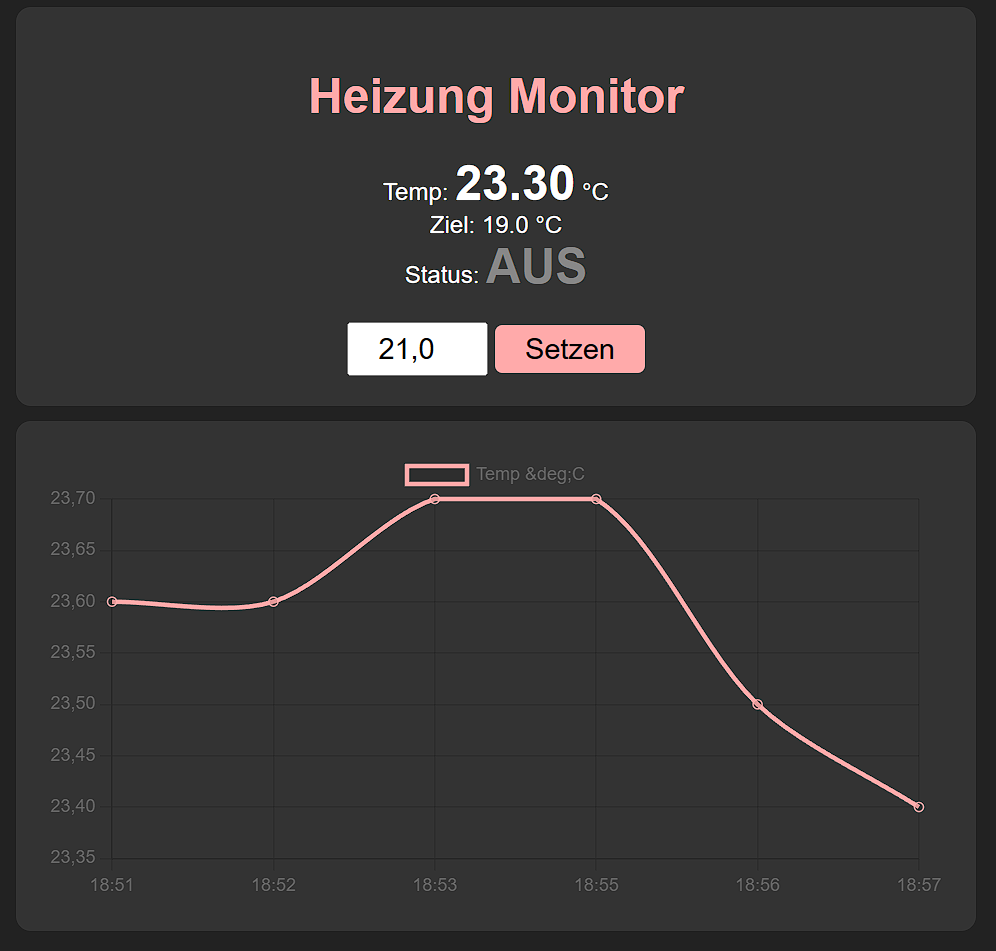
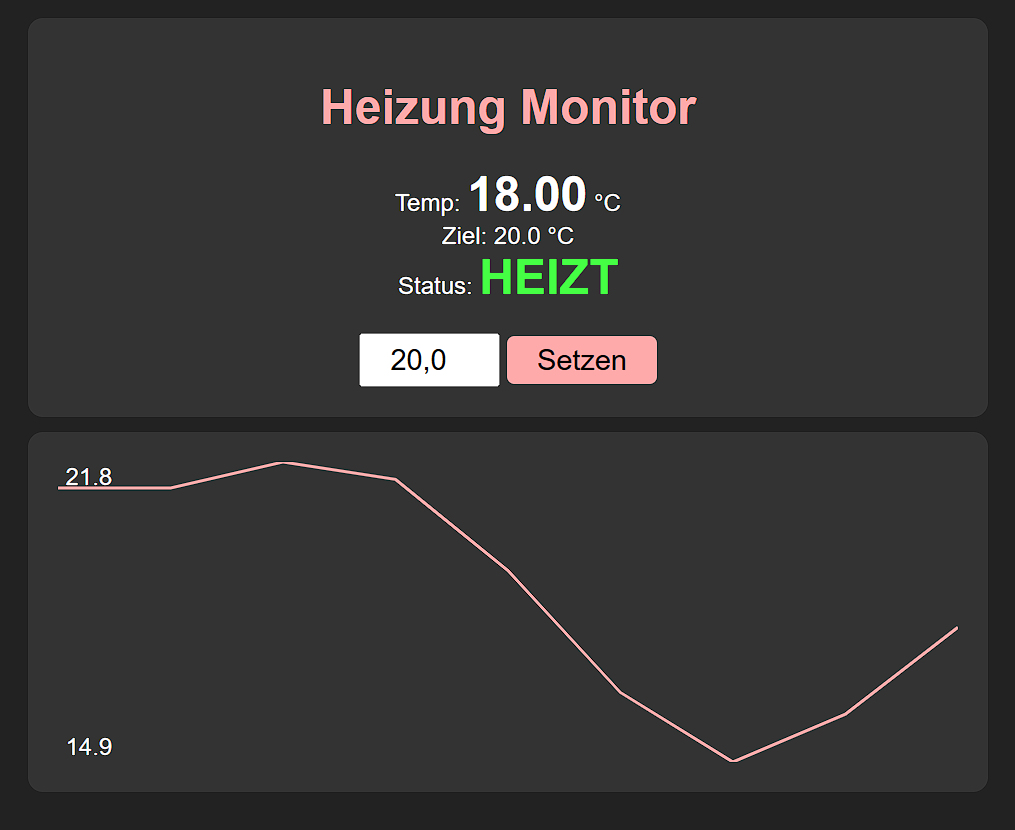
feat: replace Chart.js with custom SVG temperature graph
Replace the Canvas-based Chart.js implementation with a lightweight SVG graph for displaying temperature history. The new implementation renders temperature data as an SVG polyline directly in the browser without requiring external charting libraries, improving performance and reducing dependencies.

diff --git a/src/main.py b/src/main.py
@@ -274,12 +274,10 @@ HTML_PAGE = """<!DOCTYPE html>
   </div>
  </div>
  <div class="card">
-  <canvas id="myChart"></canvas>
+  <div id="graph" style="width:100%;height:200px;"></div>
  </div>
 
  <script>
-  let chart;
-  
   async function update() {
     try {
       let r = await fetch('/api/data');
@@ -292,15 +290,37 @@ HTML_PAGE = """<!DOCTYPE html>
       st.innerText = d.heating ? "HEIZT" : "AUS";
       st.className = d.heating ? "val status-on" : "val status-off";
       
-      // Update Graph
-      if(d.history.length > 0 && chart) {
-         let labels = d.history.map(x => new Date(x[0]*1000).toLocaleTimeString([], {hour:'2-digit', minute:'2-digit'}));
-         let data = d.history.map(x => x[1]);
-         chart.data.labels = labels;
-         chart.data.datasets[0].data = data;
-         chart.update();
+      // Update SVG Graph
+      if(d.history.length > 1) {
+         renderSVG(d.history);
       }
     } catch(e) { console.log(e); }
+  }
+
+  function renderSVG(history) {
+    const graphDiv = document.getElementById('graph');
+    const width = graphDiv.clientWidth;
+    const height = graphDiv.clientHeight;
+    
+    const temps = history.map(p => p[1]);
+    const minTemp = Math.min(...temps);
+    const maxTemp = Math.max(...temps);
+    const tempRange = maxTemp - minTemp;
+    
+    const points = history.map((p, i) => {
+        const x = (i / (history.length - 1)) * width;
+        const y = tempRange === 0 ? height / 2 : height - ((p[1] - minTemp) / tempRange) * height;
+        return `${x},${y}`;
+    }).join(' ');
+
+    const svg = `
+      <svg width="${width}" height="${height}" xmlns="http://www.w3.org/2000/svg">
+        <polyline points="${points}" style="fill:none;stroke:#faa;stroke-width:2" />
+        <text x="5" y="15" fill="#fff">${maxTemp.toFixed(1)}</text>
+        <text x="5" y="${height - 5}" fill="#fff">${minTemp.toFixed(1)}</text>
+      </svg>
+    `;
+    graphDiv.innerHTML = svg;
   }
 
   async function setTemp() {
@@ -310,13 +330,6 @@ HTML_PAGE = """<!DOCTYPE html>
   }
 
   window.onload = function() {
-    const ctx = document.getElementById('myChart').getContext('2d');
-    chart = new Chart(ctx, {
-        type: 'line',
-        data: { labels: [], datasets: [{ label: 'Temp °C', data: [], borderColor: '#faa', tension: 0.3 }] },
-        options: { scales: { y: { beginAtZero: false } } }
-    });
-    
     update();
     setInterval(update, 5000); // Alle 5 Sek Refresh
   };
